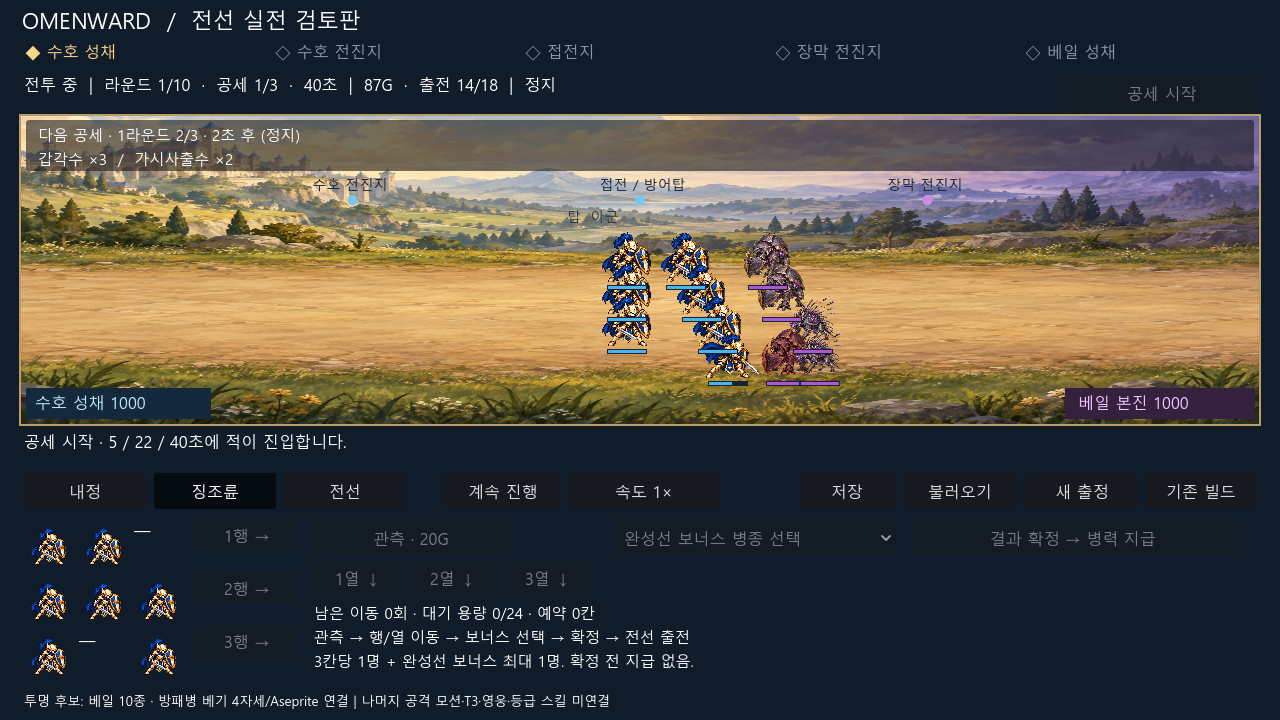
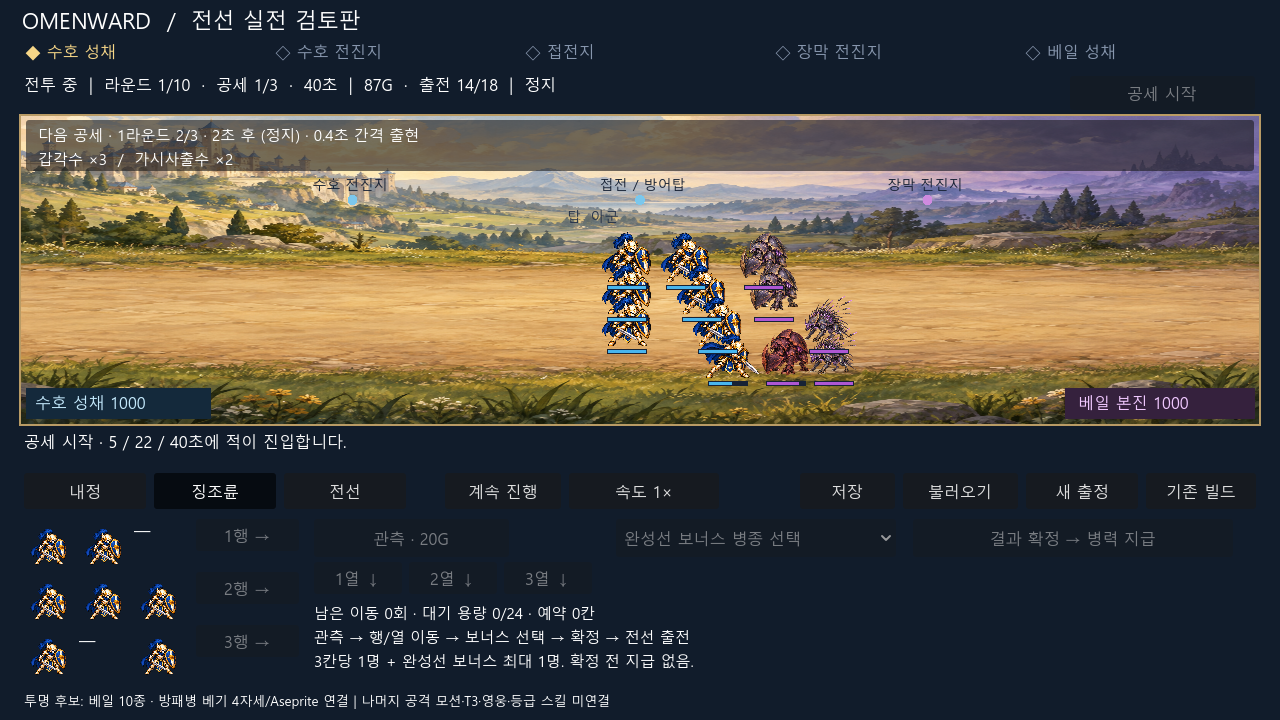
Connect blueprint wave sequence and staggered arrival with save compatibility

Changed region(s): [[0.5625, 0.3056, 0.6875, 0.5194], [0.25, 0.1833, 0.3125, 0.2139]]

diff --git a/docs/superpowers/plans/2026-09-11-visible-battle-slice.md b/docs/superpowers/plans/2026-09-11-visible-battle-slice.md
@@ -1,5 +1,15 @@
 # Visible battle and construction implementation plan
 
+## Follow-on: wave data parity
+
+Final109 checks add full-state midwave comparison (absolute1e-9 floating tolerance, exact categorical/RNG strings) and v3 legacy resave. Five-perspective independent static review found no blocker. Exact JSON text initially differed by int/float representation and ~3e-15 timer rounding; no production quantization introduced to hide this. Scope5PASS, project-scoped PASS / Base raw protected-path FAIL retained.
+
+Executed RED missing wave API -> GREEN107 model/UI/save/default. New firstwave arrives1enemy at5s,5by6.6s; thirdwave B5shield+2greatsword; round2A4shield+3archer. Midwave save restores no duplicate; v2 legacy instantaneous behavior retained and unknown profile rejected atomically. GPU20damage15units and3shieldposes. Current four baseline policies still lose round2; paid_mobilization first refit5allies11enemies and2G healing. No optimal shift search or multi-seed fairness evidence yet. This is implementation parity, not tuning success. Renderer inspected at720p/1080p outputs; independent review separate.
+
+Compare actual `_tick` repeated instantaneous wave against Blueprint cycle, 3% round scale and0.4s arrival. ADAPT Into the Breach official https://www.subsetgames.com/itb.html telegraphed threats: forecast and spawning share composition, not separate hard-coded guesses. Alternatives: tune counts now (reject until parity), merely change preview (reject mismatch), shared data-driven composition with scheduled arrivals (selected). Existing first-map pressure1.0, no invented difficulty modifier.
+
+Plan: RED first event count1 at5s, five events by6.6s, third wave B, round2 ceil count4/3, mid-wave save no duplicate; implement `wave_composition(round,wave)` plus event crossing at0.4s. Existing elapsed and wave cursor suffice; do not add redundant scheduled queue. Save v3 records `wave_rules`; older v1/v2 keeps legacy instant-wave rules for that run, new runs use staggered rules. UI/forecast, automatic policy comparison, GPU, review and owners updated together. Same exact runtime/test paths; no asset or combat-stat change.
+
 ## 2026-09-13 Omen transaction implementation
 
 Execution complete for this transaction: RED missing API/UI then GREEN99 model checks + UI/save/default + scope5. GPU front-omen.png and natural combat19damage/17units/3shieldposes. Review found pending saves could inject unavailable units; corrected allowed-pool validation before state mutation with RED regression. JSON version membership was type-sensitive; explicit numeric comparison fixes real disk load. v1 overflow rejected without mutation, no truncation. Five-perspective independent rereview clean (not independent runtime). Real-resource paid_mobilization policy reaches first refit with5allies/9enemies versus0allies in three free-only policies, but all lose round2. Policy does not optimize shifts and does not establish balance/Human PASS. No new Base reusable module proven; project-only lesson is validate pending reward source and reservation together. Below checklist records original plan.

diff --git a/docs/ACTIVE_CONTEXT.md b/docs/ACTIVE_CONTEXT.md
@@ -1,5 +1,9 @@
 # [현행] OMENWARD Active Context
 
+최종 후속 검사109개 PASS: midwave 전체 상태는 JSON 부동소수점1e-9 허용오차 내 일치, legacy profile v3 재저장/재복원까지 확인. 아래107개는 직전 검사 이력. 공세 5관점 독립 정적 검토 차단 결함 없음; 독립 reviewer runtime/Human은 NOT_RUN.
+
+2026-09-13 공세 연결 후속: 새 원정은 공세 cycle의 연속3항목, 라운드3% 증가의 올림 수량,0.4초 순차 출현을 사용한다. 예보/스폰은 wave_composition을 공유한다. v3는 wave_rules를 저장하고 v1/v2 원정은 legacy 출현 유지.107모델/UI/저장/기본 실행 PASS; GPU20damage/15units/방패3상태. 4자동 운영 모두 round2패배; paid_mobilization만 첫 재정비 아군5/적11, 치료2G 사용. 초기 밸런스는 미완료다. 다음은 병종 고유 대응·생산/충원·첫 맵 경제의 누락 대조와 복수 난수 검증이며 단순 HP 증액으로 결과를 덮지 않는다.
+
 2026-09-13 징조륜 연결: 관측→행/열 3회 이동→복수 완성선 보너스 선택→확정 지급을 구현했다. 대기열은 병종 용량 합이며 최대 지급 공간을 회전 전 확인한다. pending 상태의 건설/전문화/재회전/공세 시작을 차단하고 v2 저장에 이동 수/예약량을 보존한다. 정상 v1은 수용, 용량 초과 구형 저장은 손실 없이 거절한다. 99모델/UI/저장/기본 실행 PASS, GPU front-omen 확인. 독립 검토에서 발견한 불가능한 pending 병종 저장 수락을 RED→수정→GREEN으로 교정했다. 실제 자원 유료 동원 정책은 첫 재정비 아군5명으로 개선됐지만 2라운드 패배; 다른3정책도 패배. 최적 전략/밸런스/Human PASS 아님. 다음은 명세의 wave cycle/0.4초 순차출현과 현재 동시 출현 구현의 차이를 교정한다.
 
 2026-09-13 최신 루프 교정: 유사 장르 조사→기획 구체화→시스템 연결→구현→실제 실행→보완을 반복하며 UI 수정만으로 축소하지 않는다. 기존 Blueprint 개별 유료 치료를 준비/재정비 창·골드·HP·저장에 연결했다. 모델81검사 및 UI/저장/기본 실행 PASS. 치료 GPU 캡처는 명시적 혼합 부상병 경계 fixture이며 자연 생존 증거가 아니다. 시작 자원/seed1947/0.1초 간격의 병영 증설·궁병 전문화·일반/특수 혼합 운영은 모두 첫 재정비 아군0/적12~13, 2라운드 패배, 치료 지출0이었다. 최적 운영 불가능이나 전체 밸런스 FAIL 확정은 아니다. 다음은 초반 생산·공세·충원과 징조륜 선택 연결이며 아래 아트-only 우선순위를 대체한다. 전체 게임/Human/main 통합 미완료.

diff --git a/docs/OMENWARD_ROADMAP.md b/docs/OMENWARD_ROADMAP.md
@@ -1,5 +1,7 @@
 # [현행] OMENWARD Roadmap
 
+공세 데이터 전개까지 연결:107모델 및 화면/저장/GPU 확인. 다음은 아직 미구현인 방패의 원거리 방어·병종별 대응/성장과 초기 생산·충원 경제를 분리 검증한다. 현재4운영 모두2라운드패배로 첫 맵 플레이 가능성 검증은 열려 있다. 5맵/T3/영웅·전 병종 모션/최종 아트·Human 검증은 남아 있다.
+
 2026-09-13 징조륜 관측/조작/확정·가중 대기 용량 연결 및99모델/UI/실행 검증 완료. 다음: 공세 데이터 전개와 현재 반복 동시 스폰의 차이 → 첫 맵 복수 운영/난수와 병종 대응 → 성장/5맵/영웅. 기존 기획 수치는 검증 초깃값이며 자동 패배를 숨기기 위한 임의 수치 조정은 하지 않는다.
 
 2026-09-13 최신 완성 루프: 유료 개별 치료의 경제/재정비/UI/저장 연결 완료. 실제 자원 3운영 모두 첫 재정비 생존 아군0·2라운드 패배. 다음 순서: 초반 생산/공세 잔류/충원과 미구현 명세 대조 → 징조륜 가중 대기 한도·행/열 조작·확정 거래 → 첫 맵 전체 흐름 복수 운영/난수 검증 → 5맵 전환·성장·영웅 명세 단위 확장. 아트/모션은 consumer와 함께 병행하며 기능 연결을 미루지 않는다. 수치 변경 전에 원인·플레이어 가치·회귀 계획을 기록한다. 아래 아트 우선 순서는 이 블록으로 대체한다.

diff --git a/docs/process/APPROVED_REPLAN_UI_MOTION_BUILD_SCOPE_20260911.md b/docs/process/APPROVED_REPLAN_UI_MOTION_BUILD_SCOPE_20260911.md
@@ -1,5 +1,7 @@
 # Approved project-local replan BUILD scope
 
+Same continuation includes existing Blueprint wave-cycle composition, round pressure and0.4s sequential arrivals in front_run with shared forecast. Save v3 wave profile keeps imported v1/v2 runs on legacy instant-wave behavior, avoiding duplicate arrivals or silent old-run difficulty migration. Existing replan test/output scope only.
+
 Exact omen runtime evidence output: `output/front-omen.png` (existing actual observation UI; no new art).
 
 2026-09-13 continued implementation: latest user requests completing remaining blueprint connections without routine reapproval. Existing front_run/front_screen and replan tests now cover weighted reserve capacity and observation/adjust/bonus/confirm, with versioned pending-save validation. Exact existing consumer paths only; no Base lock/protected list change. Existing capture outputs may show this flow.
